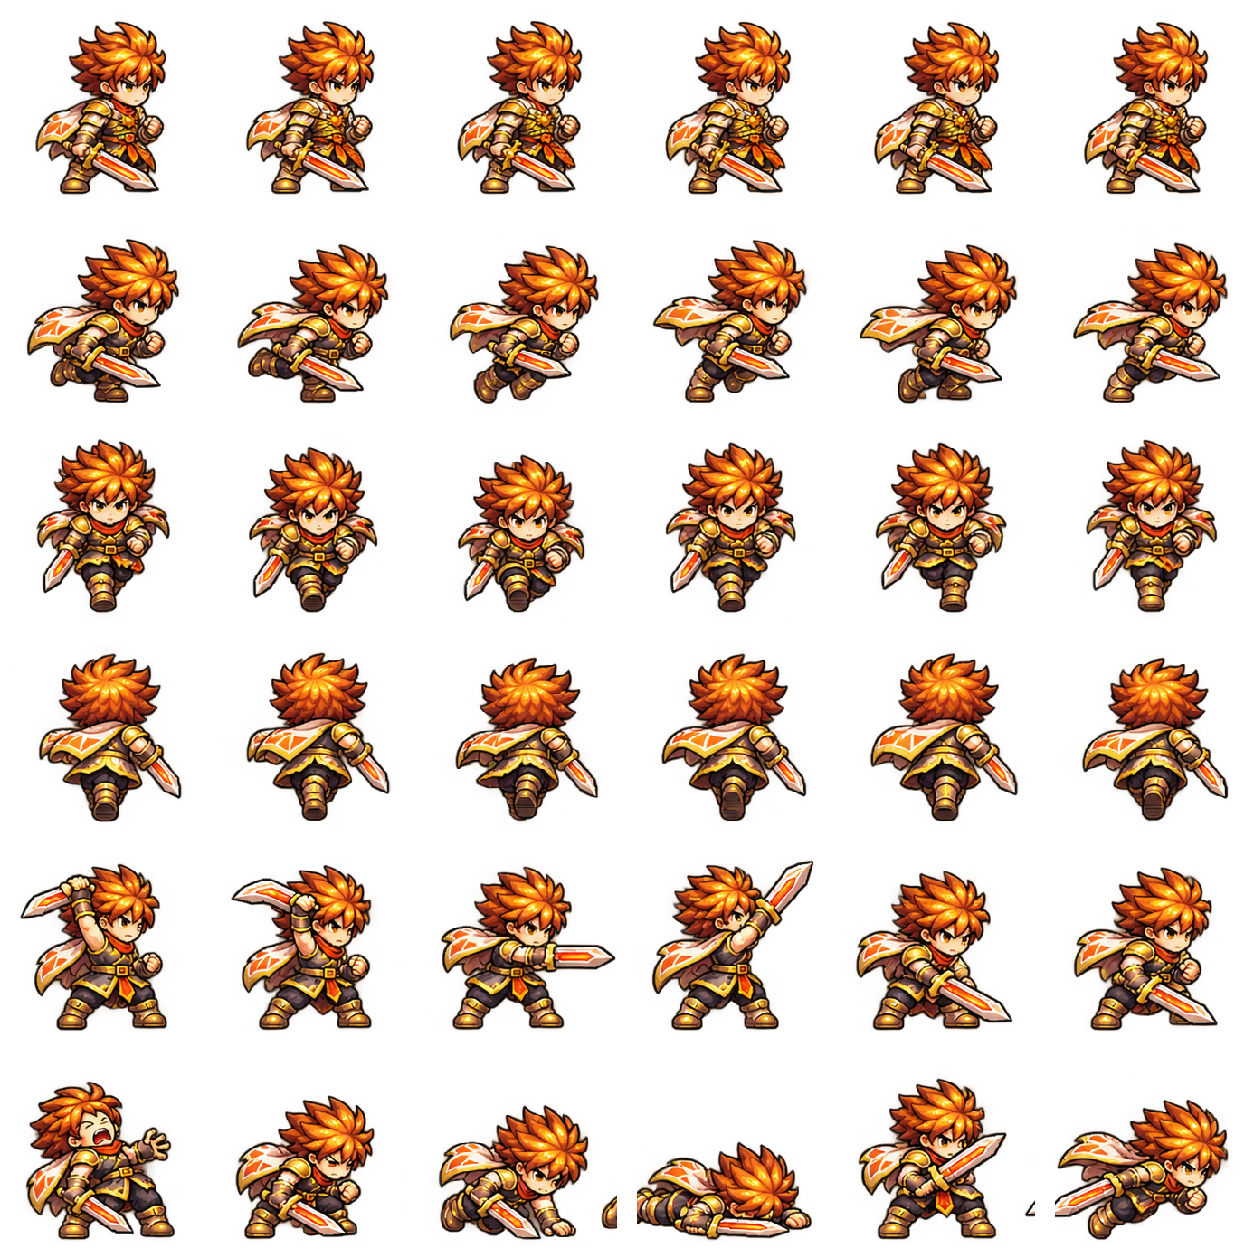
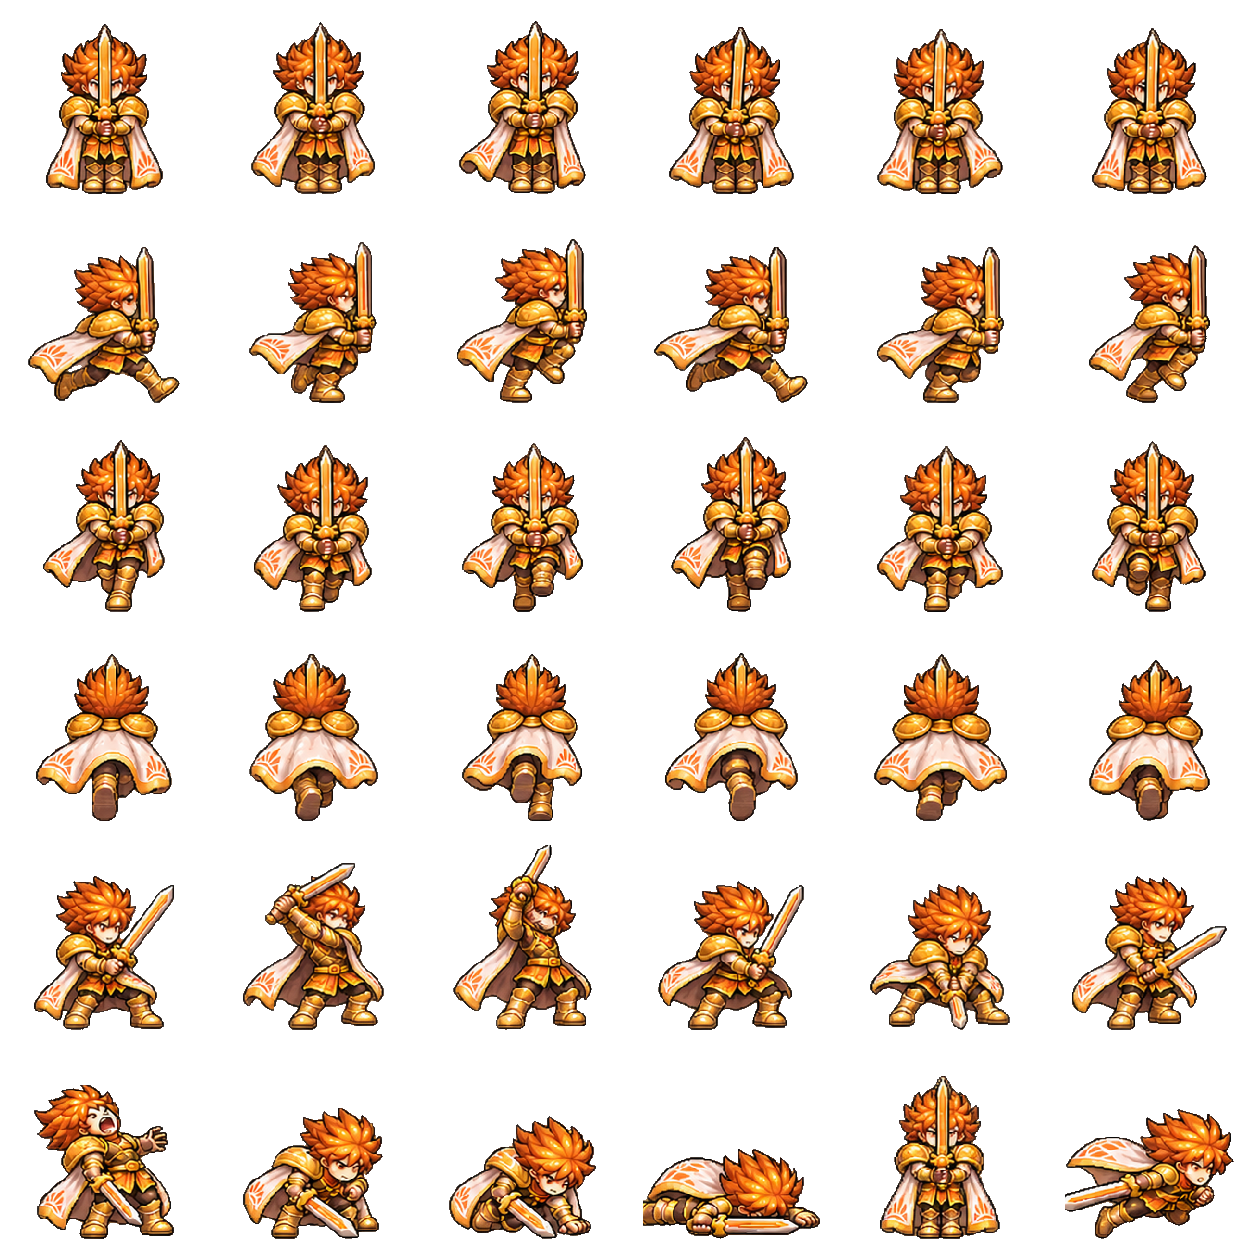
Refine Solar Guardian portrait, animation atlas and combat alignment

diff --git a/index.html b/index.html
@@ -12,4 +12,4 @@
 <section id="modeScreen" class="app-screen" hidden></section><div id="shopConfirm" hidden></div>
 <div id="integrationLoading" role="status" aria-live="polite"><span class="eyebrow">ELDORIA</span><h2>Iniciando Arena dos Campeões…</h2><p id="bootStage">Preparando menus e personagens.</p></div>
 <script src="js/diagnostico.js"></script>
-<script src="js/jogo.js?v=35"></script><script src="js/identidades_campeoes.js?v=11"></script><script src="js/seis_identidades.js?v=20"></script><script src="js/impactos_futuros.js?v=19"></script><script src="js/arena_horizontal.js?v=16"></script><script src="js/lobby_real.js?v=9"></script><script src="js/menus_simples.js?v=20"></script><script src="js/pixel_sprite.js?v=8"></script><script src="js/combate_identidades.js?v=26"></script><script src="js/combate_seis.js?v=27"></script><script src="js/arte_identidades.js?v=28"></script><script src="js/arte_seis.js?v=27"></script><script src="js/interface_identidades.js?v=11"></script><script src="js/interface_seis.js?v=10"></script><script src="js/arena_arte.js?v=15"></script><script src="js/layout_fixo.js?v=19"></script><script src="js/ninja_v22.js?v=26"></script><script src="js/corpos_v24.js?v=28"></script><script src="js/ninja_v25.js?v=26"></script><script src="js/acoes_universais.js?v=26"></script><script src="js/ichigo_v27.js?v=29"></script><script src="js/solar_v29.js?v=29"></script><script src="js/recuperar_artes.js?v=20"></script><script src="js/ui_escala.js?v=4"></script><script src="js/chefes_base.js?v=1"></script><script src="js/chefes_looks.js?v=1"></script><script src="js/vilao_zorvath.js?v=2"></script><script src="js/cacada_dia.js?v=11"></script><script src="js/chefes_motor.js?v=3"></script><script src="js/chefes_lote.js?v=1"></script><script src="js/menu_v2.js?v=3"></script><script src="js/retencao.js?v=3"></script><script src="js/copia_chefe.js?v=3"></script><script src="js/fase_arcade.js?v=10"></script><script src="js/sobrevivencia.js?v=14"></script><script src="js/economia.js?v=2"></script><script src="js/combate_v3.js?v=13"></script><script src="js/hud_v3.js?v=4"></script><script src="js/combate_v3b.js?v=2"></script><script src="js/menus_v3.js?v=2"></script><script src="js/iniciar.js"></script><script src="js/tela_cheia.js?v=17"></script></body></html>
+<script src="js/jogo.js?v=35"></script><script src="js/identidades_campeoes.js?v=11"></script><script src="js/seis_identidades.js?v=20"></script><script src="js/impactos_futuros.js?v=19"></script><script src="js/arena_horizontal.js?v=16"></script><script src="js/lobby_real.js?v=9"></script><script src="js/menus_simples.js?v=20"></script><script src="js/pixel_sprite.js?v=8"></script><script src="js/combate_identidades.js?v=26"></script><script src="js/combate_seis.js?v=27"></script><script src="js/arte_identidades.js?v=28"></script><script src="js/arte_seis.js?v=27"></script><script src="js/interface_identidades.js?v=11"></script><script src="js/interface_seis.js?v=10"></script><script src="js/arena_arte.js?v=15"></script><script src="js/layout_fixo.js?v=19"></script><script src="js/ninja_v22.js?v=26"></script><script src="js/corpos_v24.js?v=28"></script><script src="js/ninja_v25.js?v=26"></script><script src="js/acoes_universais.js?v=26"></script><script src="js/ichigo_v27.js?v=29"></script><script src="js/solar_v29.js?v=31"></script><script src="js/recuperar_artes.js?v=20"></script><script src="js/ui_escala.js?v=4"></script><script src="js/chefes_base.js?v=1"></script><script src="js/chefes_looks.js?v=1"></script><script src="js/vilao_zorvath.js?v=2"></script><script src="js/cacada_dia.js?v=11"></script><script src="js/chefes_motor.js?v=3"></script><script src="js/chefes_lote.js?v=1"></script><script src="js/menu_v2.js?v=3"></script><script src="js/retencao.js?v=3"></script><script src="js/copia_chefe.js?v=3"></script><script src="js/fase_arcade.js?v=10"></script><script src="js/sobrevivencia.js?v=14"></script><script src="js/economia.js?v=2"></script><script src="js/combate_v3.js?v=13"></script><script src="js/hud_v3.js?v=4"></script><script src="js/combate_v3b.js?v=2"></script><script src="js/menus_v3.js?v=2"></script><script src="js/iniciar.js"></script><script src="js/tela_cheia.js?v=17"></script></body></html>

diff --git a/js/solar_v29.js b/js/solar_v29.js
@@ -1,6 +1,6 @@
 'use strict';
 // Solar artwork only: the existing Chama/burn/collision/balance rules stay in combate_seis/v3.
-const SOLAR29_BODY=rwImage('assets/solar_v29/body.webp?v=29');
+const SOLAR29_BODY=rwImage('assets/solar_v29/body.webp?v=31');
 const SOLAR29_FX=Object.fromEntries(['slash','tiger','pillar','dash','phoenix','impact','aura'].map(key=>[key,rwImage(`assets/solar_v29/${key}.webp?v=29`)]));
 const solar29Cells=new Map();
 let solar29Registration=null;
@@ -17,7 +17,8 @@ function solar29Register(){
   if(bottom<0)return null;
   frames.push({x,y,top,bottom});
  }
- return solar29Registration={frames,height:Math.max(...frames.slice(0,6).map(f=>f.bottom-f.top+1))};
+ // Use the neutral frame for body scale; breathing must not shrink the whole atlas.
+ return solar29Registration={frames,height:frames[0].bottom-frames[0].top+1};
 }
 function solar29Pose(a,t){
  const q=a.rwCast,angle=q?.angle??a.rwFacing??a.a??0;
@@ -43,7 +44,8 @@ function solar29Body(g,a,size=72,t=vfxTime){
  const reg=solar29Register();if(!reg)return false;
  const pose=solar29Pose(a,t),f=reg.frames[pose.frame],k=size/72*73/reg.height;
  g.save();g.imageSmoothingEnabled=false;
- g.translate(0,9*size/72);g.scale(Math.cos(pose.angle)<0?-1:1,1);
+ // Align the exported foot baseline with the actor origin (9px higher at size 72).
+ g.scale(Math.cos(pose.angle)<0?-1:1,1);
  const breath=pose.idle?Math.sin(t*2.6)*.012:0;
  g.scale(1-breath*.25,1+breath);
  // Fixed root and exported baseline: a long sword or fluttering cape never recenters the body.
@@ -173,8 +175,8 @@ ultimateCinematicActor=function(){return solar29OldCinematic()||actors.find(a=>a
 const solar29OldIcon=icon;
 icon=function(id){const s=skills[id];return s?.champion===3?`<span class="skill-art reforged-icon" aria-hidden="true" style="background-image:url('assets/solar_v29/icon-${s.slot}.webp?v=29')"></span>`:solar29OldIcon(id);};
 const solar29OldArt=championArt;
-championArt=c=>c.id===3?'assets/solar_v29/portrait.webp?v=29':solar29OldArt(c);
-CHAMPION_HEROES.solar='assets/solar_v29/portrait.webp?v=29';
+championArt=c=>c.id===3?'assets/solar_v29/portrait.webp?v=31':solar29OldArt(c);
+CHAMPION_HEROES.solar='assets/solar_v29/portrait.webp?v=31';
 SKINS[3].desc='Cabelo laranja-dourado, capa branca com detalhes solares, armadura dourada e espada com brilho de brasa.';
 const solar29OldDetail=openChampionDetails;
 openChampionDetails=function(id){solar29OldDetail(id);$('#heroDetail')?.classList.toggle('solar-detail',Number(id)===3);};
